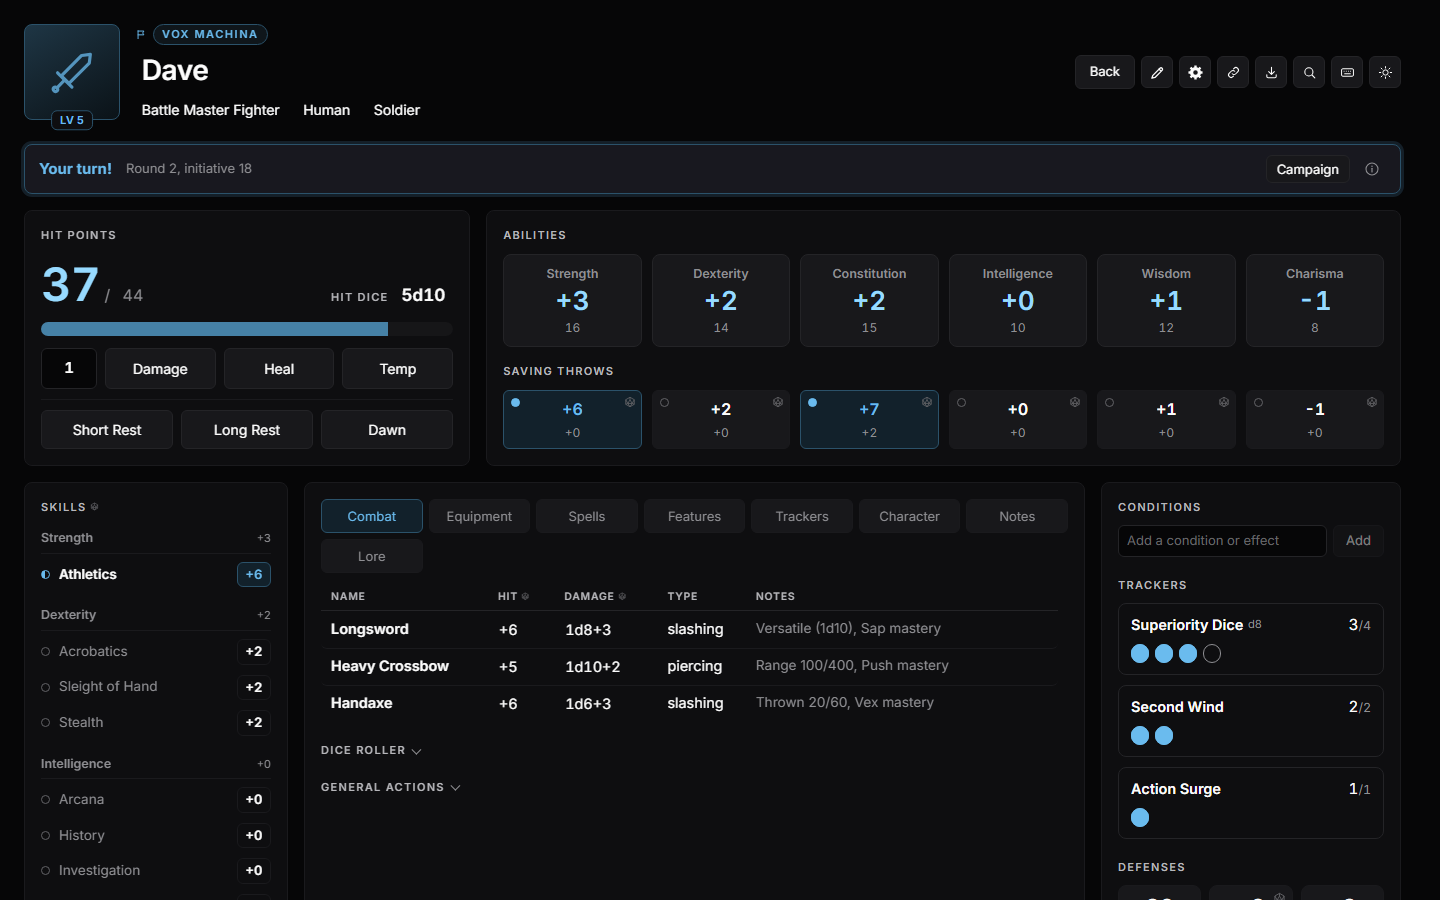
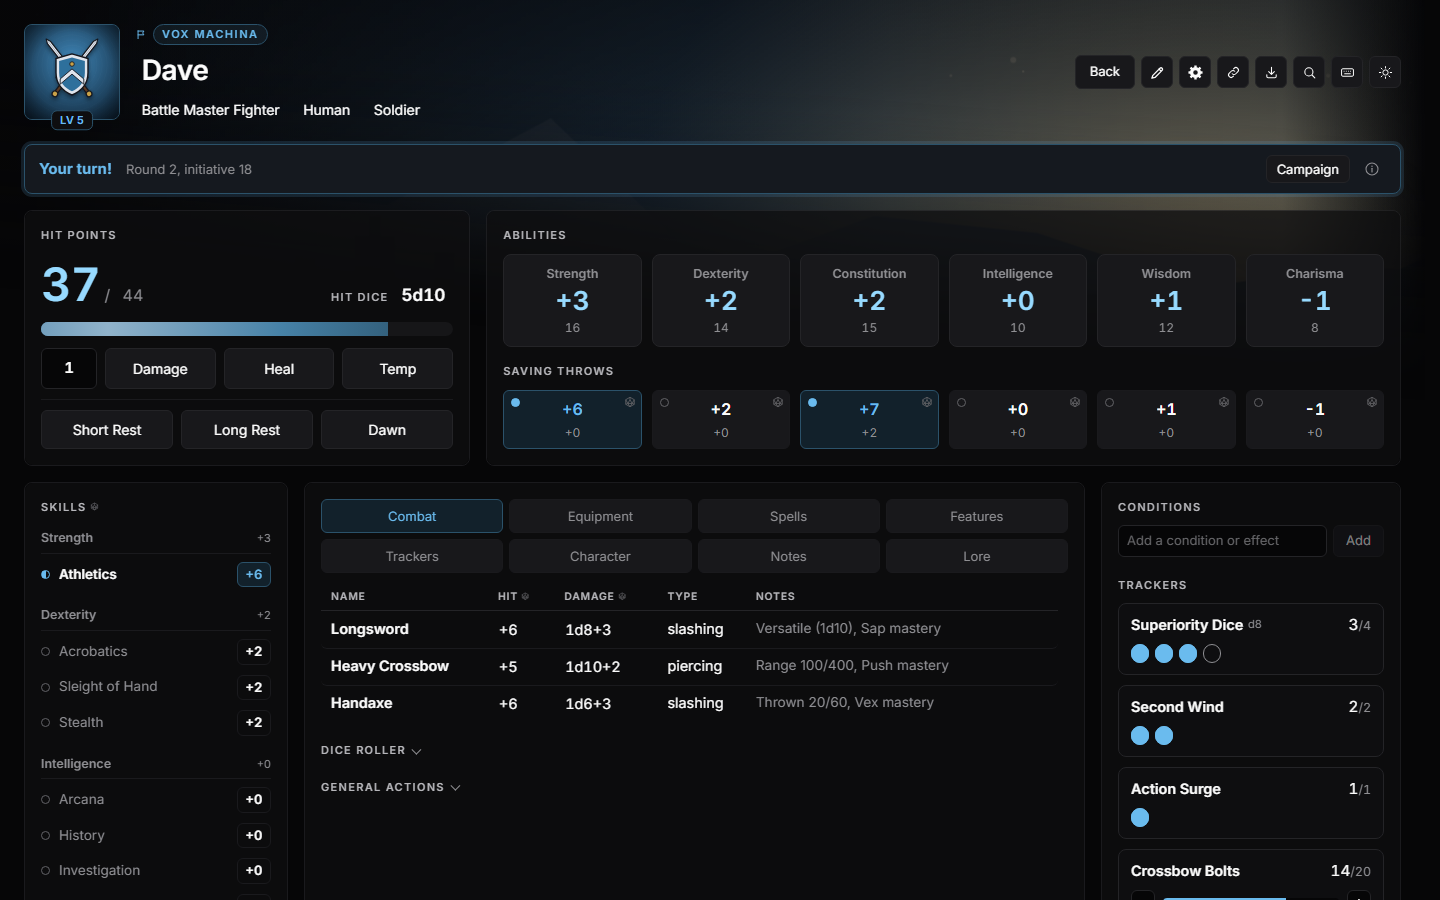
docs: the README's Showcase, a dark and a light shot on each platform
Preview is now Showcase, without its line of description. Each picture
has a theme of its own, the sheet and the campaign carry sample
portraits, a crest, and banners, the campaign shows its Owlbear Rodeo
button, and Dave's trackers show pips and a gauge.

diff --git a/README.md b/README.md
@@ -35,19 +35,17 @@ away, and puts the whole party on one live page for the DM.
   installs like an app, and joins an [Owlbear Rodeo](https://www.owlbear.rodeo/)
   map through its extension.
 
-## Preview
-
-Dave, a level 5 Battle Master fighter, in a campaign named Vox Machina.
+## Showcase
 
 <p align="center">
-  <img src=".github/readme/desktop-sheet.png" alt="Dave's character sheet on a computer: hit points, abilities, saving throws, skills, attacks, trackers, and defenses" width="100%">
+  <img src=".github/readme/desktop-sheet.png" alt="Dave's character sheet on a computer in dark mode: hit points, abilities, saving throws, skills, attacks, and trackers with pips and a gauge" width="100%">
 </p>
 <p align="center">
-  <img src=".github/readme/desktop-campaign.png" alt="The Vox Machina campaign page as the DM sees it: the party's cards, the initiative order mid-fight, and the monsters in sight" width="100%">
+  <img src=".github/readme/desktop-campaign.png" alt="The Vox Machina campaign page in light mode as the DM sees it: the party's cards with their portraits, and the initiative order mid-fight" width="100%">
 </p>
 <p align="center">
-  <img src=".github/readme/phone-sheet.png" alt="Dave's sheet on a phone, with its places on a bar at the bottom" width="49%">
-  <img src=".github/readme/phone-campaign.png" alt="The initiative order on a phone in light mode, with Back and Next Turn under the thumb" width="49%">
+  <img src=".github/readme/phone-sheet.png" alt="Dave's sheet on a phone in light mode, with its places on a bar at the bottom" width="49%">
+  <img src=".github/readme/phone-campaign.png" alt="The initiative order on a phone in dark mode, with Back and Next Turn under the thumb" width="49%">
 </p>
 
 ## Usage
